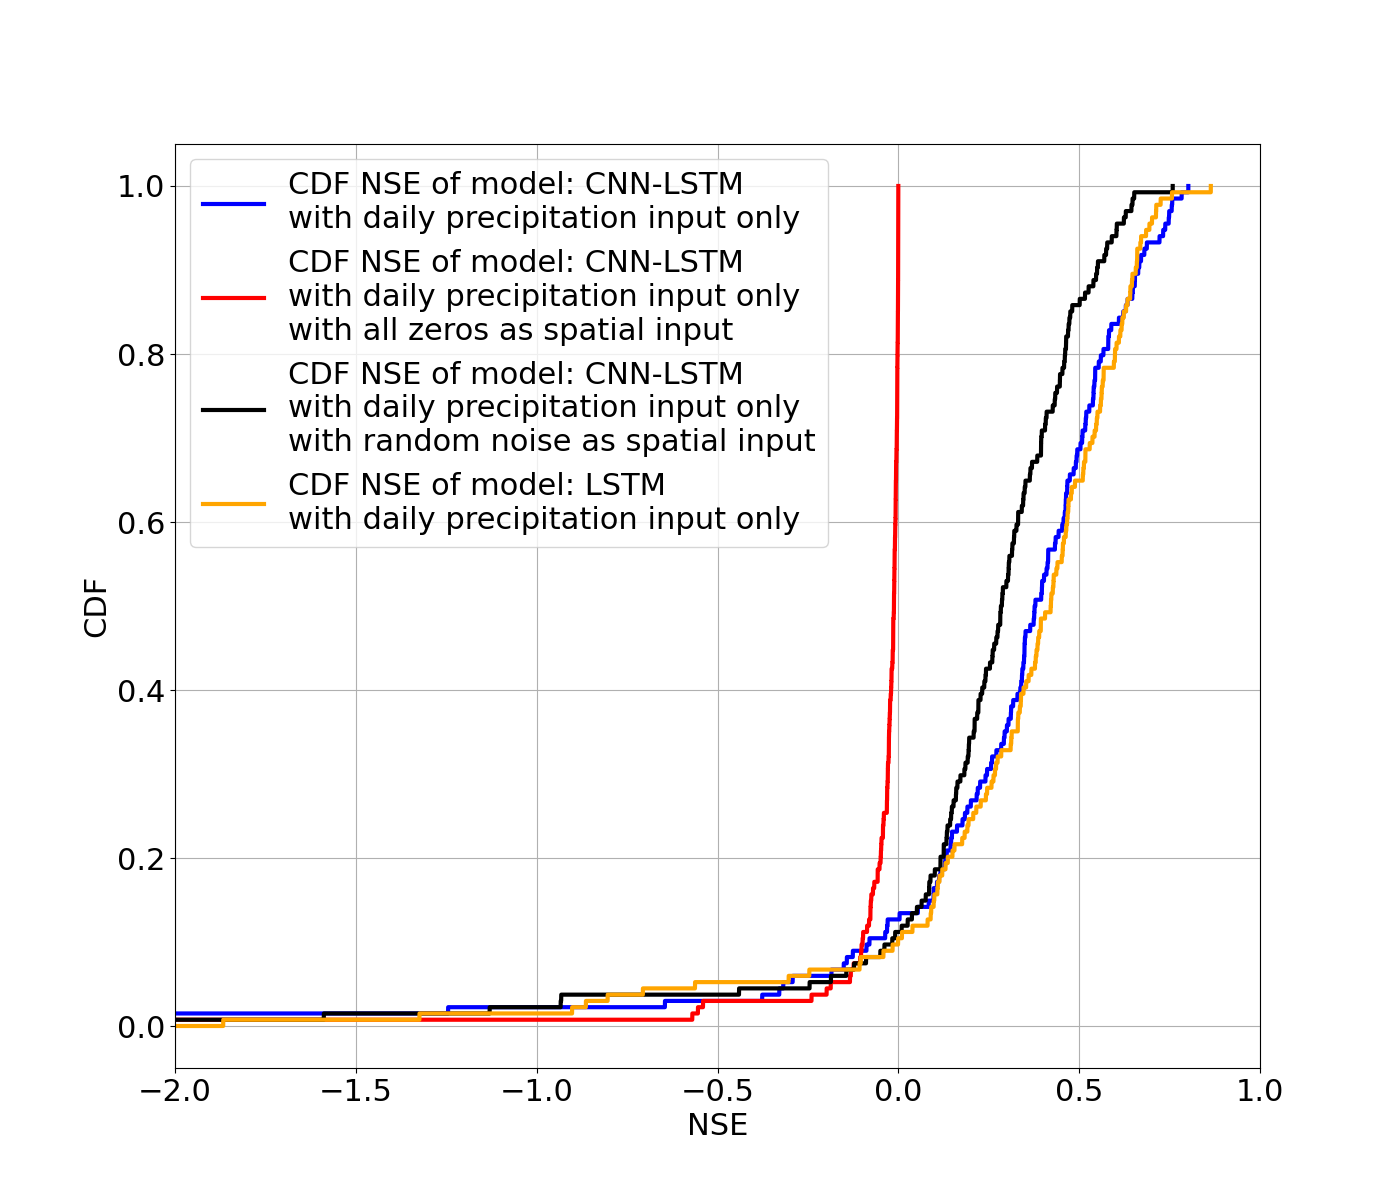
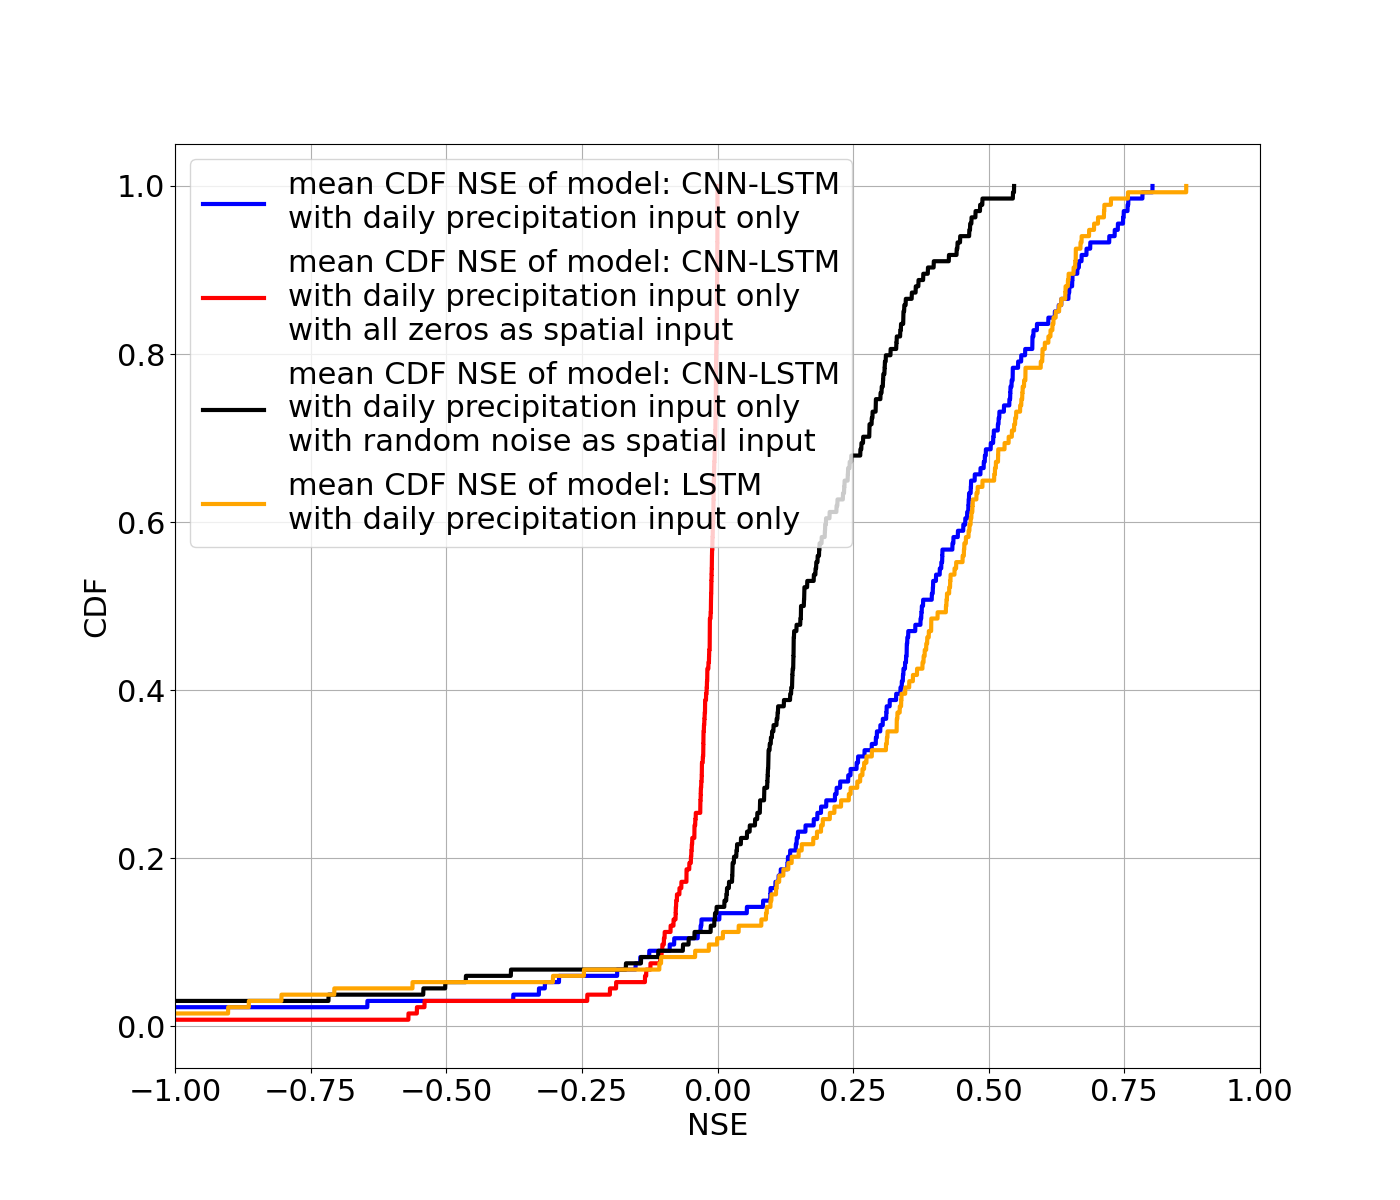
adding boolean for ablation study for CDF NSE plot script

diff --git a/src/create_CDF_NSE_comparison_plot_from_slurm_output.py b/src/create_CDF_NSE_comparison_plot_from_slurm_output.py
@@ -160,10 +160,12 @@ def calc_dicts_from_all_runs_and_all_files(input_file_paths):
     return dict_all_runs_from_all_files, dict_avg_runs_from_all_files
 
 
-def plot_NSE_CDF_graphs_my_code():
-    input_file_names = ["slurm-17775252.out", "slurm-17782018.out", "slurm-17828539.out", "slurm-17832148.out",
-                        "slurm-17837642.out", "slurm-18941386.out", "slurm-19158233.out"]
-    # input_file_names = ["slurm-19089603.out", "slurm-19100407.out", "slurm-19114239.out", "slurm-19128144.out"]
+def plot_NSE_CDF_graphs_my_code(ablation_study=False):
+    if ablation_study:
+        input_file_names = ["slurm-19089603.out", "slurm-19100407.out", "slurm-19185354.out", "slurm-19128144.out"]
+    else:
+        input_file_names = ["slurm-17775252.out", "slurm-17782018.out", "slurm-17828539.out", "slurm-17832148.out",
+                            "slurm-17837642.out", "slurm-18941386.out", "slurm-19158233.out"]
     input_file_paths = [Path(f"../slurm_output_files/slurm_files_ensemble_comparison/{file_name}").resolve() for
                         file_name in input_file_names]
     dict_all_runs_from_all_files, dict_avg_runs_from_all_files = calc_dicts_from_all_runs_and_all_files(
@@ -177,9 +179,9 @@ def plot_NSE_CDF_graphs_my_code():
     plot_title = f"NSE CDF of slurm files - {input_files_names_formatted}"
     plt.rcParams.update({'font.size': 22})
     model_names_cross_product_list = (
-            list(itertools.combinations(model_names, 1)) +
-            list(itertools.combinations(model_names, 2)) +
-            list(itertools.combinations(model_names, 3)))
+        # list(itertools.combinations(model_names, 1)) +
+        # list(itertools.combinations(model_names, 2)) +
+        list(itertools.combinations(model_names, len(model_names))))
     for pair_model_names in model_names_cross_product_list:
         figure(figsize=(14, 12))
         # for ind, model_name in enumerate(pair_model_names):
@@ -213,13 +215,16 @@ def plot_NSE_CDF_graphs_my_code():
                     plot_color=COLORS_LIST[ind],
                     plot_opacity=1,
                     line_width=3,
-                    label=f"mean CDF NSE of model: {model_name.replace('_', '-')}")
+                    label=f"mean CDF NSE of model: {model_name.replace('_', '-')}",
+                    ablation_study=ablation_study)
         # if plot_title != "":
         #     plt.title(plot_title)
         plt.legend(loc='upper left')
         plt.grid()
-        plt.savefig("NSE_CDF" + f"_{'_'.join(pair_model_names)}".replace('\n', ' '))
-        # plt.savefig("NSE_CDF_ablation_study")
+        if ablation_study:
+            plt.savefig("NSE_CDF_ablation_study")
+        else:
+            plt.savefig("NSE_CDF" + f"_{'_'.join(pair_model_names)}".replace('\n', ' '))
         plt.clf()
 
 
@@ -241,13 +246,16 @@ def plot_NSE_CDF_graph_frederik_code():
 
 
 def plot_CDF_NSE_basins(nse_losses_np, params_tuple, model_name, plot_color, plot_opacity, line_width,
-                        label=""):
+                        label="", ablation_study=False):
     # taken from https://stackoverflow.com/questions/15408371/cumulative-distribution-plots-python
     values, base = np.histogram(nse_losses_np, bins=100000)
     cumulative = np.cumsum(values)
     cumulative = (cumulative - np.min(cumulative)) / (np.max(cumulative) - np.min(cumulative))
     # plt.xscale("symlog")
-    plt.xlim((0, 1))
+    if ablation_study:
+        plt.xlim((-1, 1))
+    else:
+        plt.xlim((0, 1))
     plt.xlabel("NSE")
     plt.ylabel("CDF")
     # sns.kdeplot(nse_losses_np, cumulative=True)
@@ -258,8 +266,8 @@ def plot_CDF_NSE_basins(nse_losses_np, params_tuple, model_name, plot_color, plo
         plt.plot(base[:-1], cumulative, color=plot_color, alpha=plot_opacity, linewidth=line_width)
 
 
-def main():
-    plot_NSE_CDF_graphs_my_code()
+def main(ablation_study=False):
+    plot_NSE_CDF_graphs_my_code(ablation_study=ablation_study)
 
 
 if __name__ == "__main__":
@@ -284,4 +292,4 @@ if __name__ == "__main__":
     #     for j in range(res.shape[1]):
     #         print("{0:0.2f}".format(res[i, j]), end=" ")
     #     print()
-    main()
+    main(ablation_study=False)
